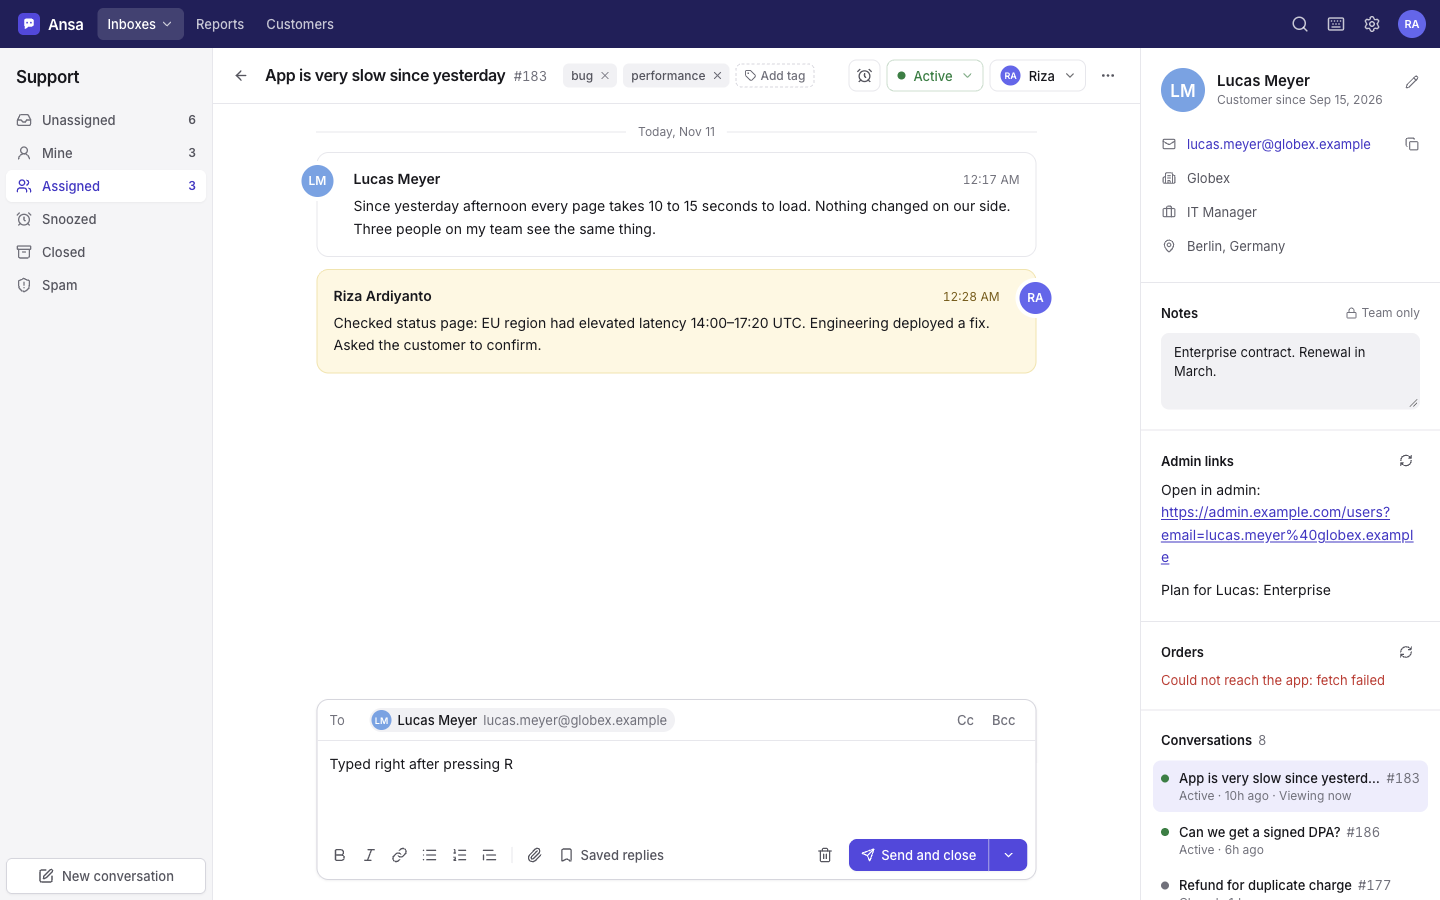
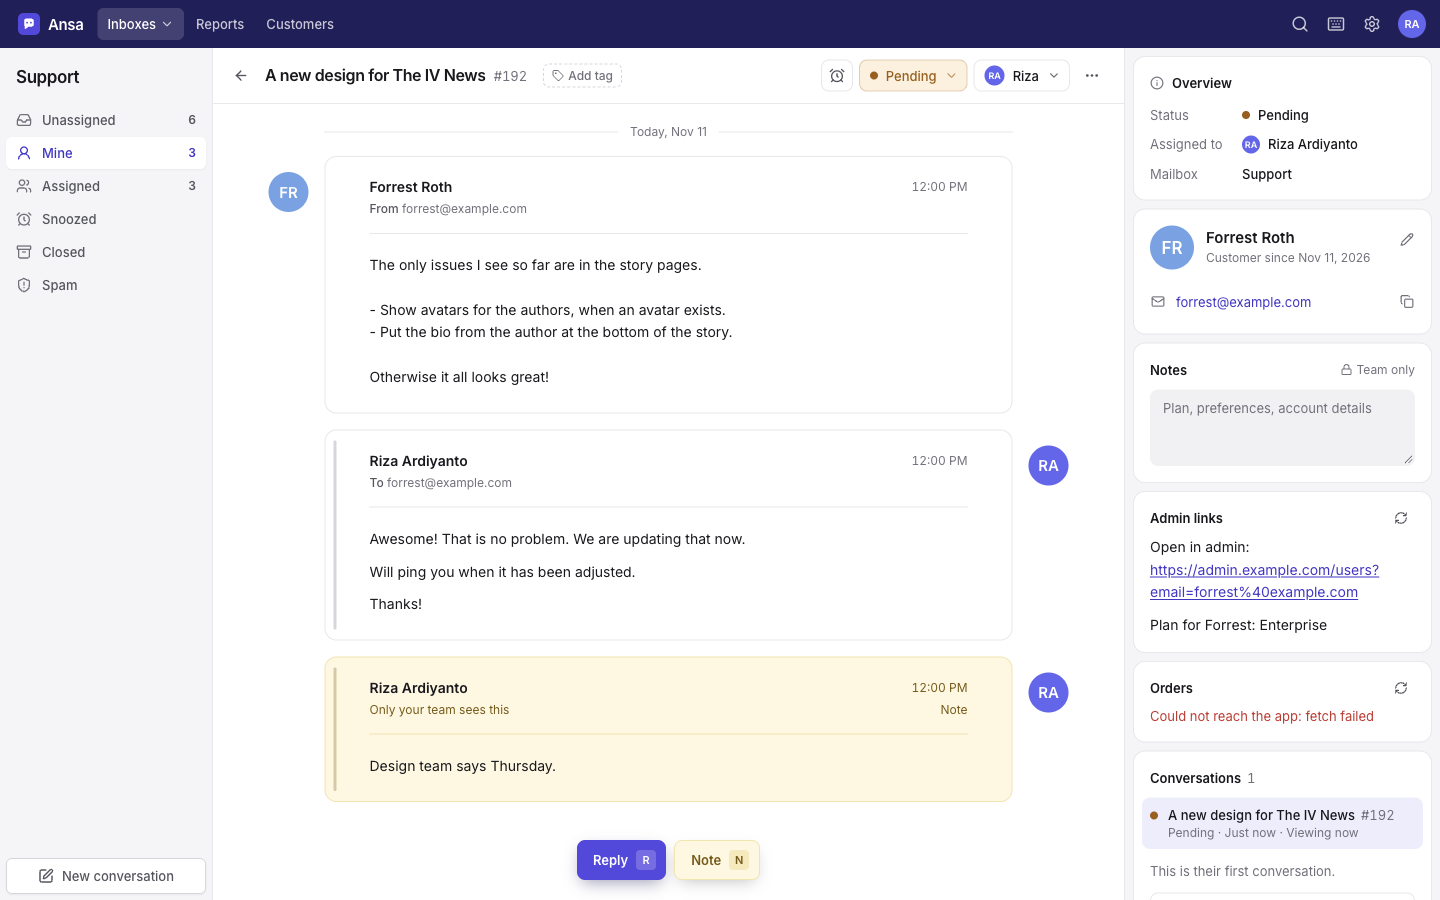
Give messages more room and structure; fix short conversation links
Messages get a wider text indent, a meta line and divider, avatars outside
the card, a bar on team messages, and trimmed blank lines. Reply and Note
float at the bottom. The customer panel is a stack of cards with an overview.
Links like /c/123 no longer show 'This conversation is gone'.

diff --git a/web/src/inbox/ConversationView.tsx b/web/src/inbox/ConversationView.tsx
@@ -16,10 +16,8 @@ import {
   PanelRight,
   Plus,
   RefreshCw,
-  Reply,
   ShieldAlert,
   ShieldCheck,
-  StickyNote,
   Tag as TagIcon,
   Trash2,
   UserRound,
@@ -172,12 +170,12 @@ export function ConversationView({ id, onBack, onDone }: { id: number; onBack: (
           }}
         />
       </div>
-      <aside className="hidden w-[300px] shrink-0 overflow-y-auto border-l border-line xl:block" aria-label="Customer">
+      <aside className="hidden w-[316px] shrink-0 overflow-y-auto border-l border-line bg-canvas xl:block" aria-label="Customer">
         <CustomerPanel conversation={conversation} />
       </aside>
       {panel && (
         <div className="animate-fade fixed inset-0 z-30 flex justify-end bg-black/40 xl:hidden" onClick={() => setPanel(false)}>
-          <aside className="h-full w-80 max-w-[88vw] overflow-y-auto bg-surface shadow-pop" onClick={(e) => e.stopPropagation()} aria-label="Customer">
+          <aside className="h-full w-80 max-w-[88vw] overflow-y-auto bg-canvas shadow-pop" onClick={(e) => e.stopPropagation()} aria-label="Customer">
             <CustomerPanel conversation={conversation} />
           </aside>
         </div>
@@ -652,51 +650,54 @@ function ThreadList({ conversation, composing, onCompose }: { conversation: Conv
   }, [conversation.id, lastId, composing])
 
   return (
-    <div ref={scroller} className="min-h-0 flex-1 overflow-y-auto px-5 md:px-6">
-      <ol className="mx-auto flex max-w-[720px] flex-col gap-3 pt-5 pb-3">
-        {conversation.threads.map((thread, index) => {
-          const newDay = index === 0 || dayKey(thread.createdAt) !== dayKey(conversation.threads[index - 1].createdAt)
-          return (
-            <Fragment key={thread.id}>
-              {newDay && (
-                <li className="flex items-center gap-3 text-xs text-fg-3">
-                  <span className="h-px flex-1 bg-line" aria-hidden />
-                  <time dateTime={new Date(thread.createdAt).toISOString().slice(0, 10)}>{dayLabel(thread.createdAt)}</time>
-                  <span className="h-px flex-1 bg-line" aria-hidden />
-                </li>
-              )}
-              {thread.type === 'event' ? (
-                <EventLine thread={thread} />
-              ) : (
-                <Message
-                  thread={thread}
-                  folded={folded.has(thread.id)}
-                  onToggle={() =>
-                    setFolded((set) => {
-                      const next = new Set(set)
-                      if (next.has(thread.id)) next.delete(thread.id)
-                      else next.add(thread.id)
-                      return next
-                    })
-                  }
-                />
-              )}
-            </Fragment>
-          )
-        })}
-        {!composing && (
-          <li className="mt-1 flex items-center justify-center gap-2">
-            <button type="button" onClick={() => onCompose('reply')} className="flex h-9 items-center gap-2 rounded-lg bg-accent px-3.5 text-[13px] font-medium text-white transition-colors hover:bg-accent-hover">
-              <Reply className="size-4" aria-hidden />
-              Reply
-            </button>
-            <button type="button" onClick={() => onCompose('note')} className="flex h-9 items-center gap-2 rounded-lg border border-note-line bg-note px-3.5 text-[13px] font-medium text-note-fg transition-colors hover:brightness-[0.98]">
-              <StickyNote className="size-4" aria-hidden />
-              Note
-            </button>
-          </li>
-        )}
-      </ol>
+    <div className="relative flex min-h-0 flex-1 flex-col">
+      <div ref={scroller} className="min-h-0 flex-1 overflow-y-auto px-4 md:px-6">
+        {/* The extra bottom space keeps the last message clear of the floating buttons. */}
+        <ol className={cx('mx-auto flex max-w-[800px] flex-col gap-4 pt-5', composing ? 'pb-4' : 'pb-24')}>
+          {conversation.threads.map((thread, index) => {
+            const newDay = index === 0 || dayKey(thread.createdAt) !== dayKey(conversation.threads[index - 1].createdAt)
+            return (
+              <Fragment key={thread.id}>
+                {newDay && (
+                  <li className="flex items-center gap-3 text-xs text-fg-3 md:px-14">
+                    <span className="h-px flex-1 bg-line" aria-hidden />
+                    <time dateTime={new Date(thread.createdAt).toISOString().slice(0, 10)}>{dayLabel(thread.createdAt)}</time>
+                    <span className="h-px flex-1 bg-line" aria-hidden />
+                  </li>
+                )}
+                {thread.type === 'event' ? (
+                  <EventLine thread={thread} />
+                ) : (
+                  <Message
+                    thread={thread}
+                    folded={folded.has(thread.id)}
+                    onToggle={() =>
+                      setFolded((set) => {
+                        const next = new Set(set)
+                        if (next.has(thread.id)) next.delete(thread.id)
+                        else next.add(thread.id)
+                        return next
+                      })
+                    }
+                  />
+                )}
+              </Fragment>
+            )
+          })}
+        </ol>
+      </div>
+      {!composing && (
+        <div className="pointer-events-none absolute inset-x-0 bottom-5 flex justify-center gap-2">
+          <button type="button" onClick={() => onCompose('reply')} className="pointer-events-auto flex h-10 items-center gap-2 rounded-lg bg-accent pr-2.5 pl-4 text-[13px] font-semibold text-white shadow-[0_6px_16px_-4px_rgba(34,31,92,0.45)] transition-colors hover:bg-accent-hover">
+            Reply
+            <kbd className="flex size-5 items-center justify-center rounded bg-white/20 font-sans text-[11px] font-semibold">R</kbd>
+          </button>
+          <button type="button" onClick={() => onCompose('note')} className="pointer-events-auto flex h-10 items-center gap-2 rounded-lg border border-note-line bg-note pr-2.5 pl-4 text-[13px] font-semibold text-note-fg shadow-[0_6px_16px_-6px_rgba(24,24,29,0.3)] transition-[filter] hover:brightness-[0.98]">
+            Note
+            <kbd className="flex size-5 items-center justify-center rounded bg-note-line/70 font-sans text-[11px] font-semibold">N</kbd>
+          </button>
+        </div>
+      )}
     </div>
   )
 }
@@ -732,6 +733,35 @@ function EventLine({ thread }: { thread: Thread }) {
   )
 }
 
+const KEEP_EMPTY = new Set(['IMG', 'HR', 'TABLE', 'VIDEO', 'AUDIO', 'IFRAME'])
+const isBlank = (node: Node): boolean => {
+  if (node.nodeType === Node.TEXT_NODE) return !(node.textContent || '').replace(/[\s ]/g, '')
+  if (node.nodeType !== Node.ELEMENT_NODE) return true
+  const el = node as Element
+  if (KEEP_EMPTY.has(el.tagName) || el.querySelector('img, hr, table')) return false
+  return !(el.textContent || '').replace(/[\s ]/g, '')
+}
+/**
+ * Emails often end, and sometimes start, with empty lines. Drop them so every card has the same padding.
+ * The HTML was cleaned by the server; it is parsed here in an inert template and nothing in it runs.
+ */
+function trimBlankEdges(html: string): string {
+  const template = document.createElement('template')
+  template.innerHTML = html
+  const trim = (parent: Node, edge: 'firstChild' | 'lastChild') => {
+    for (let node = parent[edge]; node; node = parent[edge]) {
+      if (isBlank(node)) parent.removeChild(node)
+      else {
+        if (node.nodeType === Node.ELEMENT_NODE && !KEEP_EMPTY.has((node as Element).tagName)) trim(node, edge)
+        break
+      }
+    }
+  }
+  trim(template.content, 'lastChild')
+  trim(template.content, 'firstChild')
+  return template.innerHTML
+}
+
 function Message({ thread, folded, onToggle }: { thread: Thread; folded: boolean; onToggle: () => void }) {
   const client = useQueryClient()
   const { toast } = useFeedback()
@@ -746,50 +776,69 @@ function Message({ thread, folded, onToggle }: { thread: Thread; folded: boolean
   const isCustomer = thread.type === 'customer'
   const name = thread.author.name
   const color = thread.author.kind === 'user' ? thread.author.color : isCustomer ? CUSTOMER_COLOR : undefined
-  const verb = thread.type === 'reply' && thread.via === 'auto' ? 'sent automatically' : thread.type === 'reply' && thread.via === 'email' ? 'replied by email' : ''
   const files = thread.attachments.filter((a) => !a.inline)
   const text = useMemo(() => (folded ? stripTags(thread.bodyHtml) : ''), [folded, thread.bodyHtml])
-  const html = showQuoted && quoted.data ? quoted.data : thread.bodyHtml
+  const html = useMemo(() => trimBlankEdges(showQuoted && quoted.data ? quoted.data : thread.bodyHtml), [showQuoted, quoted.data, thread.bodyHtml])
+
+  // The line under the name says where the message came from or went, and how.
+  const meta: ReactNode[] = []
+  const sender = thread.from || (thread.author.kind === 'customer' ? thread.author.email : '')
+  if (isCustomer && sender) meta.push(<><span className="font-medium text-fg-2">From</span> {sender}</>)
+  if (thread.type === 'reply' && thread.to.length > 0) meta.push(<><span className="font-medium text-fg-2">To</span> {thread.to.join(', ')}</>)
+  if (!isNote && thread.cc.length > 0) meta.push(<><span className="font-medium text-fg-2">Cc</span> {thread.cc.join(', ')}</>)
+  if (isNote) meta.push(<>Only your team sees this</>)
+  const how = isNote ? 'Note' : thread.type === 'reply' ? (thread.via === 'auto' ? 'Auto reply' : thread.via === 'email' ? 'Replied by email' : thread.via === 'mcp' || thread.via === 'api' ? 'Sent through the API' : '') : ''
 
   return (
-    <li>
+    <li className="relative md:px-14">
+      {/* The avatar sits outside the card: left for the customer, right for the team. */}
+      <Avatar name={name} color={color} size={40} className={cx('absolute top-4 hidden md:inline-flex', isCustomer ? 'left-0' : 'right-0')} />
       <article
         aria-label={`${isNote ? 'Note' : 'Message'} from ${name}`}
         className={cx(
-          'relative rounded-xl py-4',
-          // Customer messages and replies share one white outlined card. The avatar side tells them apart:
-          // left for the customer, right for us. Notes are yellow.
-          isCustomer ? 'pr-4 pl-9' : 'pr-9 pl-4',
-          isNote ? 'border border-note-line bg-note' : 'border border-line bg-surface',
+          'relative rounded-xl border px-5 md:px-11',
+          folded ? 'py-4' : 'pt-5 pb-6',
+          isNote ? 'border-note-line bg-note' : 'border-line bg-surface',
           thread.state === 'failed' && 'ring-1 ring-danger/50',
         )}
       >
-        <Avatar name={name} color={color} size={32} className={cx('absolute top-3 ring-4 ring-surface', isCustomer ? '-left-4' : '-right-4')} />
-        <header className="flex items-baseline gap-2">
-          <button type="button" onClick={onToggle} aria-expanded={!folded} className="flex min-w-0 flex-1 items-baseline gap-1.5 rounded text-left">
-            <span className="shrink-0 text-sm font-semibold">{name}</span>
-            {verb && <span className="shrink-0 text-[13px] text-fg-3">{verb}</span>}
-            {folded && <span className="min-w-0 flex-1 truncate text-[13px] text-fg-3">{text}</span>}
-          </button>
-          {thread.state === 'sending' && <span className="shrink-0 text-xs text-fg-3">Sending…</span>}
-          <time className={cx('shrink-0 text-xs tabular-nums', isNote ? 'text-note-fg' : 'text-fg-3')} title={fullTime(thread.createdAt)}>
-            {timeOnly.format(thread.createdAt)}
-          </time>
+        {/* A bar down the left edge marks what the team wrote. */}
+        {!isCustomer && <span className={cx('absolute top-2.5 bottom-2.5 left-2 w-[3px] rounded-full', isNote ? 'bg-note-fg/30' : 'bg-line-strong')} aria-hidden />}
+        <header>
+          <div className="flex items-center gap-2.5">
+            <Avatar name={name} color={color} size={24} className="md:hidden" />
+            <button type="button" onClick={onToggle} aria-expanded={!folded} className="flex min-w-0 flex-1 items-baseline rounded text-left">
+              <span className="truncate text-sm font-semibold">{name}</span>
+            </button>
+            {thread.state === 'sending' && <span className="shrink-0 text-xs text-fg-3">Sending…</span>}
+            <time className={cx('shrink-0 text-xs tabular-nums', isNote ? 'text-note-fg' : 'text-fg-3')} title={fullTime(thread.createdAt)}>
+              {timeOnly.format(thread.createdAt)}
+            </time>
+          </div>
+          {folded ? (
+            <button type="button" onClick={onToggle} tabIndex={-1} className="mt-1 block w-full truncate text-left text-[13px] text-fg-3">
+              {text || 'No message text'}
+            </button>
+          ) : (
+            (meta.length > 0 || how) && (
+              <div className={cx('mt-1 flex items-baseline gap-3 text-xs', isNote ? 'text-note-fg' : 'text-fg-3')}>
+                <p className="min-w-0 flex-1 [overflow-wrap:anywhere]">
+                  {meta.map((part, index) => (
+                    <Fragment key={index}>
+                      {index > 0 && <span className="mx-1.5" aria-hidden>·</span>}
+                      {part}
+                    </Fragment>
+                  ))}
+                </p>
+                {how && <span className="shrink-0">{how}</span>}
+              </div>
+            )
+          )}
         </header>
         {!folded && (
-          <div className="mt-1.5">
-            {!isNote && (thread.cc.length > 0 || (thread.type === 'reply' && thread.to.length > 0)) && (
-              <p className="mb-2 text-xs text-fg-3">
-                {thread.type === 'reply' && thread.to.length > 0 && <>To {thread.to.join(', ')}</>}
-                {thread.cc.length > 0 && (
-                  <>
-                    {thread.type === 'reply' && thread.to.length > 0 ? ' · ' : ''}Cc {thread.cc.join(', ')}
-                  </>
-                )}
-              </p>
-            )}
+          <div className={cx('mt-4 border-t pt-5', isNote ? 'border-note-line' : 'border-line')}>
             {thread.state === 'failed' && (
-              <div role="alert" className="mb-3 flex items-start gap-2 rounded-lg bg-danger-soft px-3 py-2 text-[13px] text-danger">
+              <div role="alert" className="mb-4 flex items-start gap-2 rounded-lg bg-danger-soft px-3 py-2 text-[13px] text-danger">
                 <CircleAlert className="mt-0.5 size-4 shrink-0" aria-hidden />
                 <div className="min-w-0 flex-1">
                   <p className="font-medium">This reply was not sent.</p>
@@ -806,13 +855,13 @@ function Message({ thread, folded, onToggle }: { thread: Thread; folded: boolean
                 type="button"
                 onClick={() => setShowQuoted((open) => !open)}
                 aria-expanded={showQuoted}
-                className={cx('mt-2 inline-flex h-5 items-center rounded-md px-1.5 text-xs font-medium text-fg-3 hover:text-fg', isNote ? 'bg-black/5 hover:bg-black/10 dark:bg-white/10' : 'bg-sunken hover:bg-hover')}
+                className={cx('mt-4 inline-flex h-6 items-center rounded-md px-2 text-xs font-medium text-fg-3 hover:text-fg', isNote ? 'bg-black/5 hover:bg-black/10 dark:bg-white/10' : 'bg-sunken hover:bg-hover')}
               >
                 {quoted.isFetching ? 'Loading…' : showQuoted ? 'Hide quoted text' : 'Show quoted text'}
               </button>
             )}
             {files.length > 0 && (
-              <ul className="mt-3 flex flex-wrap gap-2">
+              <ul className="mt-4 flex flex-wrap gap-2">
                 {files.map((file) => (
                   <AttachmentChip key={file.id} file={file} />
                 ))}

diff --git a/web/src/inbox/CustomerPanel.tsx b/web/src/inbox/CustomerPanel.tsx
@@ -1,7 +1,7 @@
 import { useEffect, useState, type ReactNode } from 'react'
 import { Link } from 'react-router-dom'
 import { useMutation, useQuery, useQueryClient } from '@tanstack/react-query'
-import { Briefcase, Building2, Copy, Lock, Mail, MapPin, Pencil, Phone, RefreshCw, SquarePen } from 'lucide-react'
+import { Briefcase, Building2, Copy, Info, Lock, Mail, MapPin, Pencil, Phone, RefreshCw, SquarePen } from 'lucide-react'
 import { api } from '../lib/api'
 import { ago, dateOnly, STATUS_LABEL } from '../lib/format'
 import type { Conversation, Customer } from '../lib/types'
@@ -30,7 +30,7 @@ function AppPanels({ conversationId, customerId }: { conversationId: number; cus
   return (
     <>
       {apps.data.map((app) => (
-        <section key={app.id} aria-label={app.name} className="border-t border-line p-5">
+        <section key={app.id} aria-label={app.name} className="rounded-xl border border-line bg-surface p-4">
           <div className="mb-2 flex h-5 items-center justify-between">
             <h3 className="font-semibold">{app.name}</h3>
             <IconButton label={`Reload ${app.name}`} size="sm" className="size-6" onClick={() => void apps.refetch()} disabled={apps.isFetching}>
@@ -83,8 +83,29 @@ export function CustomerPanel({ conversation }: { conversation: Conversation }) 
   const iconButton = 'flex size-7 shrink-0 items-center justify-center rounded-md text-fg-3 transition-colors hover:bg-sunken hover:text-fg'
 
   return (
-    <div className="text-[13px]">
-      <section className="p-5">
+    <div className="flex flex-col gap-2 p-2 text-[13px]">
+      <section className="rounded-xl border border-line bg-surface p-4" aria-label="Overview">
+        <h3 className="flex h-5 items-center gap-2 font-semibold">
+          <Info className="size-3.5 text-fg-3" aria-hidden />
+          Overview
+        </h3>
+        <dl className="mt-3 grid grid-cols-[92px_minmax(0,1fr)] items-center gap-y-2.5">
+          <dt className="text-fg-3">Status</dt>
+          <dd className="flex items-center gap-2 font-medium">
+            <StatusDot status={conversation.status} />
+            {STATUS_LABEL[conversation.status]}
+          </dd>
+          <dt className="text-fg-3">Assigned to</dt>
+          <dd className="flex min-w-0 items-center gap-2 font-medium">
+            {conversation.assignee ? <Avatar name={conversation.assignee.name} color={conversation.assignee.color} size={18} /> : null}
+            <span className="truncate">{conversation.assignee?.name ?? 'Nobody'}</span>
+          </dd>
+          <dt className="text-fg-3">Mailbox</dt>
+          <dd className="truncate font-medium">{conversation.mailboxName}</dd>
+        </dl>
+      </section>
+
+      <section className="rounded-xl border border-line bg-surface p-4">
         <div className="flex items-start gap-3">
           <Avatar name={displayName} color="#6fa3e8" size={44} />
           <div className="min-w-0 flex-1 pt-0.5">
@@ -125,7 +146,7 @@ export function CustomerPanel({ conversation }: { conversation: Conversation }) 
         </dl>
       </section>
 
-      <section className="border-t border-line p-5">
+      <section className="rounded-xl border border-line bg-surface p-4">
         <div className="flex h-5 items-center">
           <h3 className="font-semibold">
             <label htmlFor="customer-notes">Notes</label>
@@ -149,7 +170,7 @@ export function CustomerPanel({ conversation }: { conversation: Conversation }) 
 
       <AppPanels conversationId={conversation.id} customerId={customer.id} />
 
-      <section className="border-t border-line p-5">
+      <section className="rounded-xl border border-line bg-surface p-4">
         <div className="flex h-5 items-center">
           <h3 className="font-semibold">Conversations</h3>
           <span className="ml-1.5 text-fg-3 tabular-nums">{conversation.previousConversations.length + 1}</span>

diff --git a/web/src/App.tsx b/web/src/App.tsx
@@ -88,7 +88,8 @@ function Home() {
 function ConversationRedirect() {
   const { conversationId } = useParams()
   const { user } = useSession()
-  const query = useQuery({ queryKey: ['conversation', Number(conversationId)], queryFn: () => api.get<{ conversation: Conversation }>(`/conversations/${conversationId}`).then((r) => r.conversation) })
+  // Same key and same shape as the conversation view, so the two share one cache entry.
+  const query = useQuery({ queryKey: ['conversation', Number(conversationId)], queryFn: () => api.get<{ conversation: Conversation }>(`/conversations/${conversationId}`), select: (r) => r.conversation })
   if (query.isPending) return <Splash />
   if (query.isError) return <Navigate to="/" replace />
   const c = query.data

diff --git a/web/src/inbox/Composer.tsx b/web/src/inbox/Composer.tsx
@@ -146,8 +146,8 @@ export const Composer = forwardRef<
   )
 
   return (
-    <div className={cx('shrink-0 px-5 pb-5 md:px-6', !open && 'hidden')}>
-      <div className="mx-auto max-w-[720px]">
+    <div className={cx('shrink-0 px-4 pb-5 md:px-6', !open && 'hidden')}>
+      <div className="mx-auto max-w-[800px] md:px-14">
         {othersReplying.length > 0 && !isNote && (
           <div className="mb-2">
             <Banner kind="warn">
